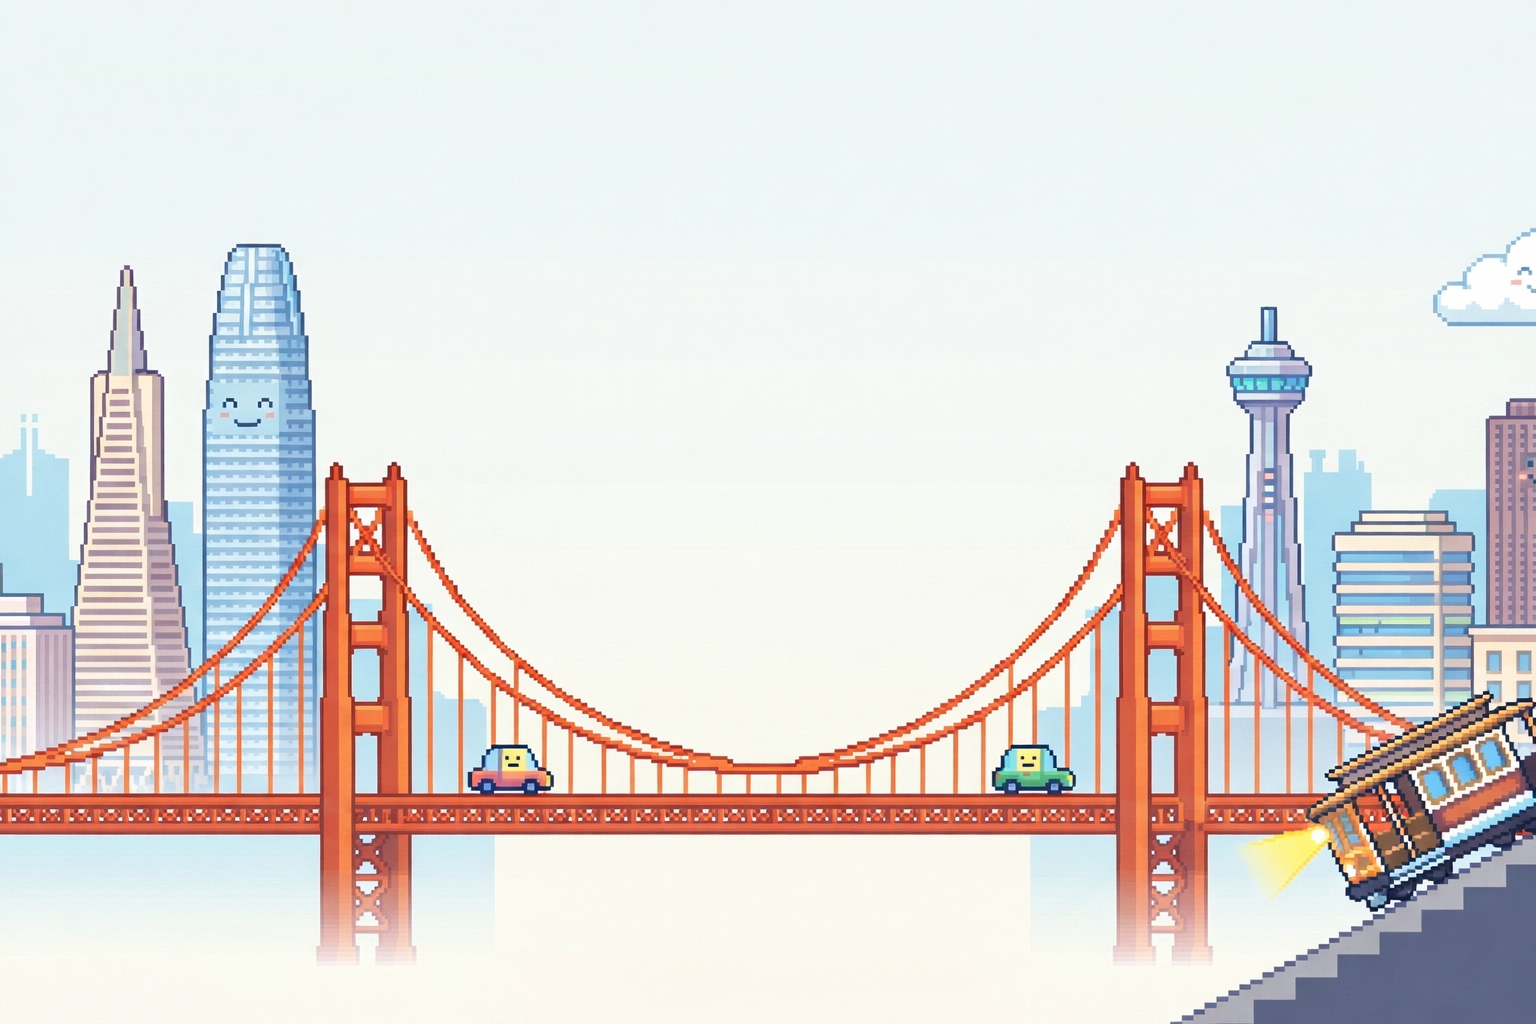
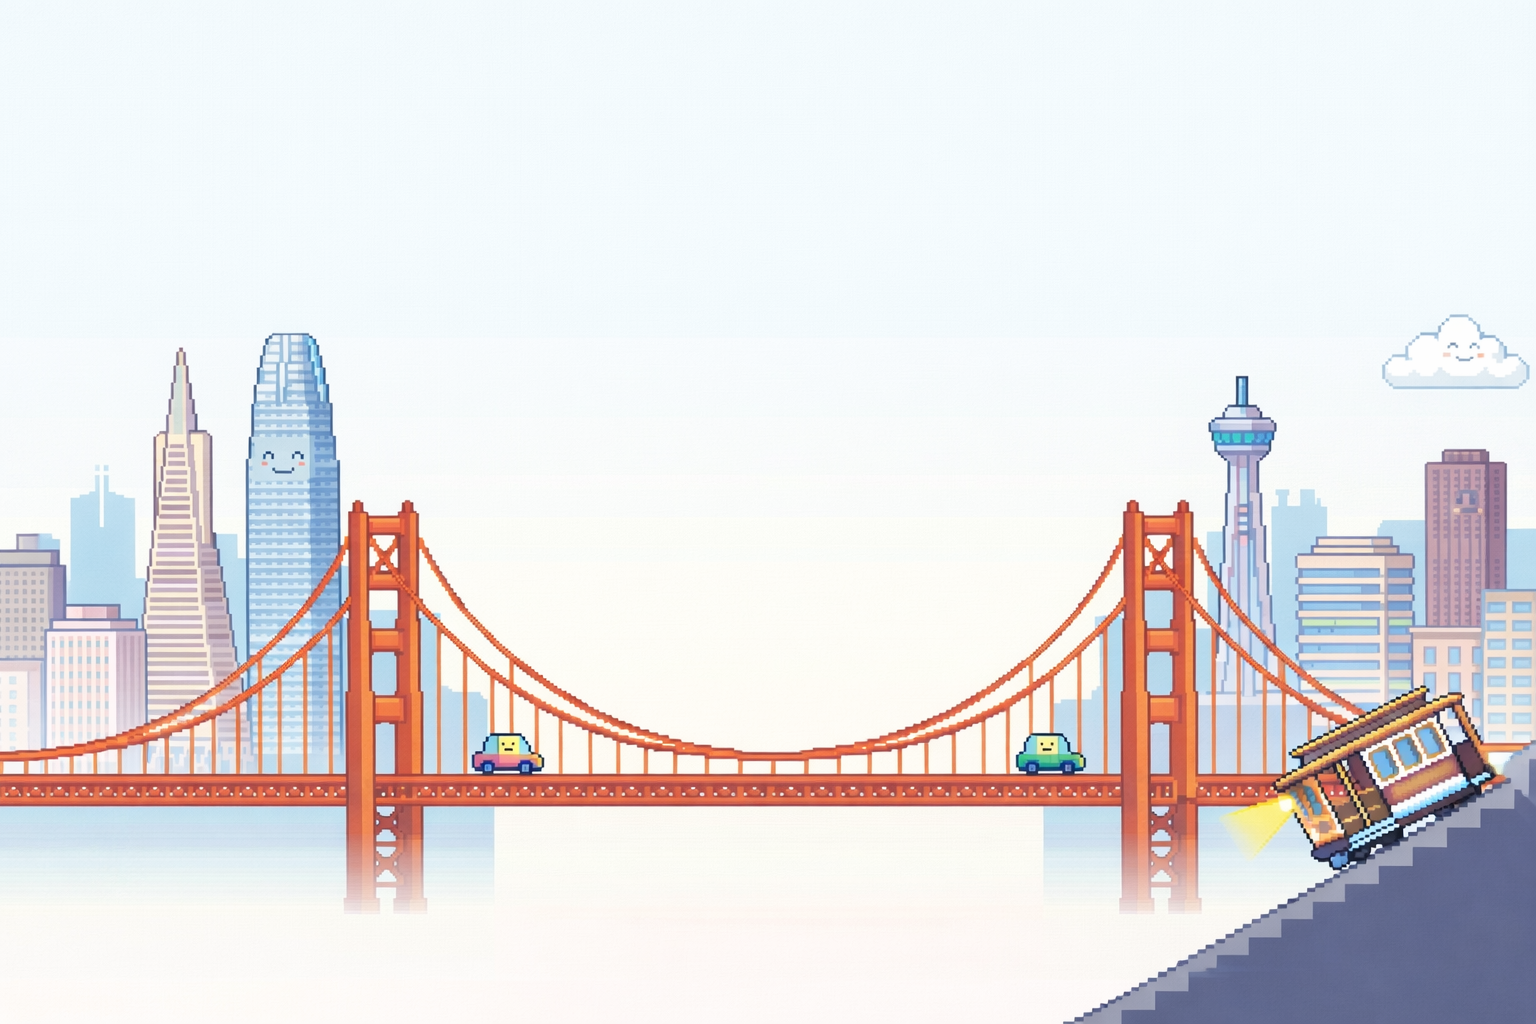
refactor: switch to Space Grotesk and Instrument Serif fonts, update layout and image aspect ratio

Changed region(s): [[0.0, 0.2188, 1.0, 1.0]]

diff --git a/app/page.tsx b/app/page.tsx
@@ -3,47 +3,49 @@ import Link from "next/link";
 
 export default function Home() {
   return (
-    <main className="relative flex min-h-screen w-full flex-col overflow-hidden bg-[#EAF3F6]">
-      <Image
-        src="/hero-sf.png"
-        alt=""
-        fill
-        priority
-        unoptimized
-        sizes="100vw"
-        className="object-contain object-bottom"
-      />
+    <main className="relative flex min-h-screen w-full flex-col bg-[#EAF3F6]">
+      <div className="relative w-full aspect-[3/2] overflow-hidden">
+        <Image
+          src="/hero-sf.png"
+          alt=""
+          fill
+          priority
+          unoptimized
+          sizes="100vw"
+          className="object-cover"
+        />
 
-      <section className="relative z-10 mx-auto flex w-full max-w-5xl flex-col items-center px-6 pt-20 pb-28 sm:pt-24 md:pt-28">
-        <span className="text-[11px] font-medium uppercase tracking-[0.18em] text-zinc-700">
-          For teams building AI agents
-        </span>
+        <section className="relative z-10 mx-auto flex w-full max-w-5xl flex-col items-center px-6 pt-[6%] sm:pt-[7%]">
+          <span className="font-pixel text-[11px] uppercase tracking-[0.22em] text-zinc-700">
+            For teams building AI agents
+          </span>
 
-        <h1 className="mt-5 max-w-3xl text-center text-4xl font-semibold leading-[1.05] tracking-tight text-zinc-950 sm:text-5xl md:text-6xl lg:text-7xl">
-          from feedback to fix
-          <br className="hidden sm:block" />
-          <span className="text-zinc-500"> in minutes.</span>
-        </h1>
+          <h1 className="font-pixel mt-5 max-w-3xl text-center text-4xl font-medium leading-[1.1] tracking-[-0.01em] text-zinc-950 sm:text-5xl md:text-6xl lg:text-7xl">
+            from feedback to fix
+            <br className="hidden sm:block" />
+            <span className="text-zinc-500"> in minutes.</span>
+          </h1>
 
-        <p className="mt-6 max-w-xl text-center text-base leading-relaxed text-zinc-700 sm:text-lg">
-          Surface the issue, align on what broke, and fix it with AI.
-        </p>
+          <p className="mt-6 max-w-xl text-center text-base leading-relaxed text-zinc-700 sm:text-lg">
+            Surface the issue, align on what broke, and fix it with AI.
+          </p>
 
-        <div className="mt-9 flex flex-col items-stretch gap-3 sm:flex-row sm:items-center">
-          <Link
-            href="/demo"
-            className="inline-flex h-11 items-center justify-center rounded-full bg-zinc-950 px-6 text-sm font-medium text-white shadow-[0_1px_0_0_rgba(255,255,255,0.12)_inset,0_1px_2px_rgba(0,0,0,0.18)] transition-[transform,background-color] duration-150 ease-out hover:bg-zinc-800 active:scale-[0.97]"
-          >
-            Book a demo
-          </Link>
-          <Link
-            href="/start"
-            className="inline-flex h-11 items-center justify-center rounded-full border border-zinc-900/10 bg-white/80 px-6 text-sm font-medium text-zinc-900 backdrop-blur-sm transition-[transform,background-color,border-color] duration-150 ease-out hover:border-zinc-900/20 hover:bg-white active:scale-[0.97]"
-          >
-            Get started
-          </Link>
-        </div>
-      </section>
+          <div className="mt-9 flex flex-col items-stretch gap-3 sm:flex-row sm:items-center">
+            <Link
+              href="/demo"
+              className="inline-flex h-11 items-center justify-center rounded-full bg-zinc-950 px-6 text-sm font-medium text-white shadow-[0_1px_0_0_rgba(255,255,255,0.12)_inset,0_1px_2px_rgba(0,0,0,0.18)] transition-[transform,background-color] duration-150 ease-out hover:bg-zinc-800 active:scale-[0.97]"
+            >
+              Book a demo
+            </Link>
+            <Link
+              href="/start"
+              className="inline-flex h-11 items-center justify-center rounded-full border border-zinc-900/10 bg-white/80 px-6 text-sm font-medium text-zinc-900 backdrop-blur-sm transition-[transform,background-color,border-color] duration-150 ease-out hover:border-zinc-900/20 hover:bg-white active:scale-[0.97]"
+            >
+              Get started
+            </Link>
+          </div>
+        </section>
+      </div>
     </main>
   );
 }

diff --git a/app/layout.tsx b/app/layout.tsx
@@ -1,14 +1,20 @@
 import type { Metadata } from "next";
-import { Geist, Geist_Mono } from "next/font/google";
+import { Instrument_Serif, Space_Grotesk } from "next/font/google";
+import { GeistSans } from "geist/font/sans";
+import { GeistMono } from "geist/font/mono";
+import { GeistPixelSquare } from "geist/font/pixel";
 import "./globals.css";
 
-const geistSans = Geist({
-  variable: "--font-geist-sans",
+const instrumentSerif = Instrument_Serif({
+  variable: "--font-instrument-serif",
+  weight: "400",
+  style: ["normal", "italic"],
   subsets: ["latin"],
 });
 
-const geistMono = Geist_Mono({
-  variable: "--font-geist-mono",
+const spaceGrotesk = Space_Grotesk({
+  variable: "--font-space-grotesk",
+  weight: ["400", "500", "600"],
   subsets: ["latin"],
 });
 
@@ -25,9 +31,9 @@ export default function RootLayout({
   return (
     <html
       lang="en"
-      className={`${geistSans.variable} ${geistMono.variable} h-full antialiased`}
+      className={`${GeistSans.variable} ${GeistMono.variable} ${GeistPixelSquare.variable} ${instrumentSerif.variable} ${spaceGrotesk.variable} h-full antialiased`}
     >
-      <body className="min-h-full flex flex-col font-sans">{children}</body>
+      <body className="min-h-full flex flex-col">{children}</body>
     </html>
   );
 }

diff --git a/app/globals.css b/app/globals.css
@@ -1,41 +1,17 @@
 @import "tailwindcss";
 
-@theme inline {
-  --font-sans: var(--font-geist-sans);
-  --font-mono: var(--font-geist-mono);
+body {
+  font-family: var(--font-space-grotesk), "Space Grotesk", ui-sans-serif,
+    system-ui, -apple-system, "Segoe UI", Roboto, "Helvetica Neue", Arial,
+    sans-serif;
+  font-weight: 500;
 }
 
-@keyframes log-in {
-  from {
-    opacity: 0;
-    transform: translateY(6px);
-    filter: blur(3px);
-  }
-  to {
-    opacity: 1;
-    transform: translateY(0);
-    filter: blur(0);
-  }
+.font-serif-display {
+  font-family: var(--font-instrument-serif), ui-serif, Georgia, Cambria,
+    "Times New Roman", Times, serif;
 }
 
-@keyframes hero-rise {
-  from {
-    opacity: 0;
-    transform: translateY(8px);
-  }
-  to {
-    opacity: 1;
-    transform: translateY(0);
-  }
-}
-
-@keyframes phase-in {
-  from {
-    opacity: 0;
-    transform: scaleY(0.6);
-  }
-  to {
-    opacity: 1;
-    transform: scaleY(1);
-  }
+.font-pixel {
+  font-family: var(--font-geist-pixel-square), ui-monospace, monospace;
 }
